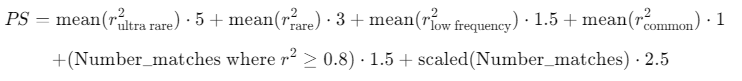
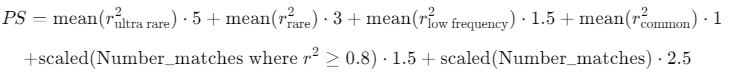
add small changes to report

Changed region(s): [[0.0, 0.075, 0.9918, 0.4], [0.0301, 0.575, 0.9617, 0.85]]

diff --git a/docs/performance-score.md b/docs/performance-score.md
@@ -35,7 +35,7 @@ The performance score (PS) for each gene is computed for each combination of gen
 <br>
 ## SNPs
 
-For SNPs, which are individually selected by the user, no performance score is calculated, since the provided r2 metrics directly reflect the imputation quality of this SNP for each combination of genotyping array and reference panel.
+For SNPs, which are individually selected by the user, no performance score is calculated, since the provided r2 metrics directly reflect the imputation quality of the SNPs for each combination of genotyping array and reference panel.
 
 Moreover, the SNPs requested by the user are not weighted according to their MAF, because we assume that they are all equally important for the user.
 <br>
@@ -59,4 +59,4 @@ This score is also computed for each combination of genotyping array and imputat
 r2 refers to the observed imputation r-squared according to the reference data.
 It is defined as the squared Pearson correlation coefficient between the imputed genotype dosages and the sequence-based genotypes.
 
-Further details about the r2 metric are described in the following [paper](https://doi.org/10.1016/j.ajhg.2022.07.012)
+Further details about the r2 metric are described in this [paper](https://doi.org/10.1016/j.ajhg.2022.07.012)

diff --git a/docs/report.md b/docs/report.md
@@ -19,7 +19,7 @@ The included genotyping arrays and imputation panels cover a broad range of scen
 - OmniExpress represents an array with a medium number of markers (> 700,000)
 - Core represents an array with a low number of markers (~ 300,000)
 
-Detailed information about the genotyping arrays, imputation panels, and the reference data is provided in the following [paper](https://doi.org/10.1016/j.ajhg.2022.07.012)
+Detailed information about the genotyping arrays, imputation panels, and the reference data is provided in this [paper](https://doi.org/10.1016/j.ajhg.2022.07.012)
 
 A performance evaluation for the specific regions of interest specified by the user will be shown first after the input metadata (if user specified any specific input).
 
